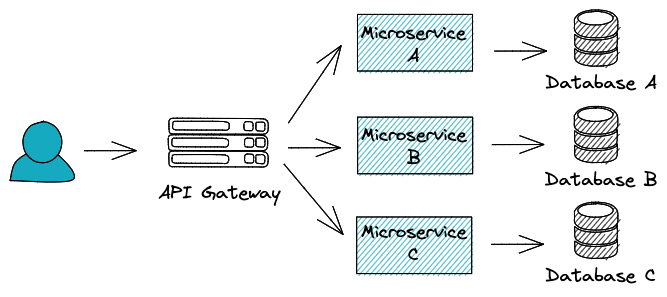
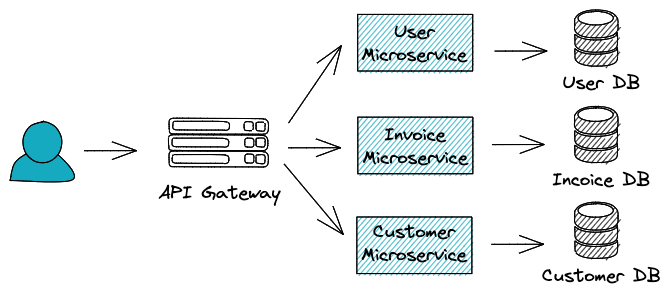
add basic example

diff --git a/microservices/handout.md b/microservices/handout.md
@@ -8,7 +8,32 @@ A microservice is a architectural pattern to structure web applications into sma
 
 # Basic example
 
-<img src="./basic-example.png" width="400px">
+<img src="./basic-example.png" width="480px">
+
+## API Gateway
+
+Handles requests of the user and knows how to address the relevant microservice.
+
+## Microservices
+
+**User**
+
+- `POST /login` -> Login with username and password
+- `GET /me` -> Get the current user
+
+**Invoice**
+
+- `POST /invoices` -> Create a new invoice
+- `GET /invoices` -> Get all invoices
+
+**Customer**
+
+- `POST /customers` -> Create a new customer
+- `GET /customers` -> Get all customers
+
+## Databases
+
+Each microservice uses it's own database (DB) or an encapsulated instance on a database system.
 
 # Motivation
 
